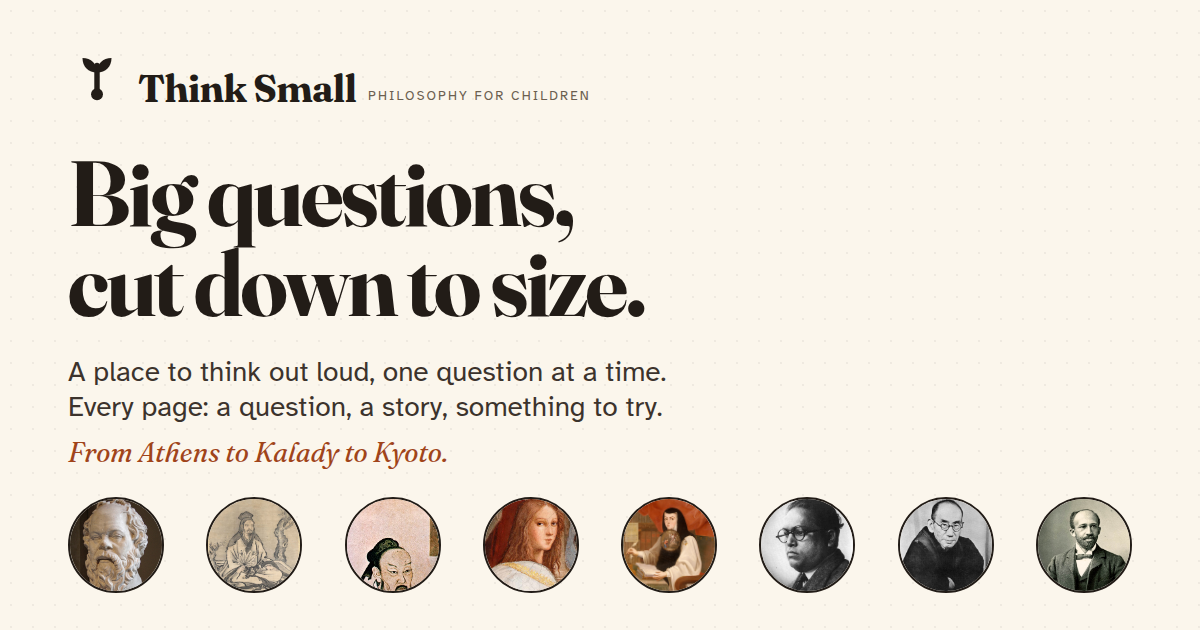
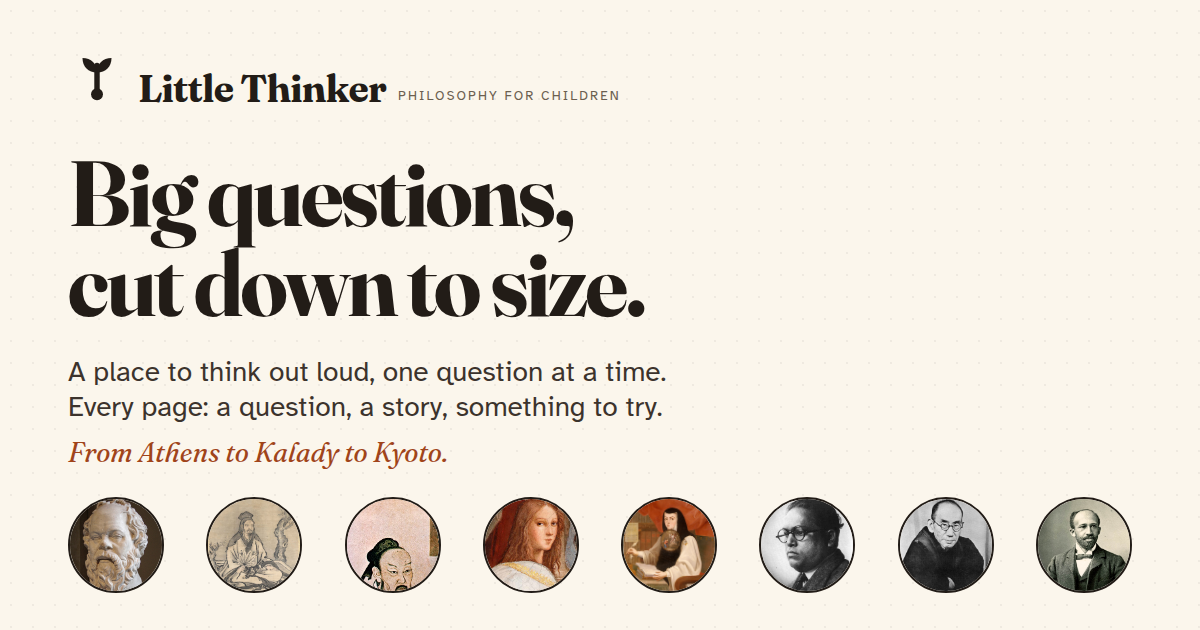
Rename the project to Little Thinker and move it to little-thinker.probir.dev
The brand, the wordmark in the logo and the social card, every page title, the
package name, the Worker name and the site URL all change. The Worker is now
deployed as little-thinker with little-thinker.probir.dev attached as a custom
domain, so Wrangler owns the DNS record and the certificate.

Storage keys move from think-small: to little-thinker:, which resets saved
reading settings and remembered votes once — nothing is sent anywhere either way.

Changed region(s): [[0.0925, 0.1206, 0.5242, 0.181]]

diff --git a/scripts/og-card.html b/scripts/og-card.html
@@ -36,7 +36,7 @@
       <path d="M16 12.4c0-4.8 3.2-8 8-8 0 4.8-3.2 8-8 8Z" fill="currentColor"/>
       <path d="M16 12.4c0-4.8-3.2-8-8-8 0 4.8 3.2 8 8 8Z" fill="currentColor"/>
       <circle cx="16" cy="24.4" r="3.3" fill="currentColor"/></svg>
-    <span class="wordmark">Think&nbsp;Small</span>
+    <span class="wordmark">Little&nbsp;Thinker</span>
     <span class="tag">PHILOSOPHY FOR CHILDREN</span>
   </div>
 
@@ -56,6 +56,6 @@
   </div>
 
   <div class="rule"></div>
-  <div class="url"><span>Read alone, or read together</span><span>think-small-philosophy.probir.workers.dev</span></div>
+  <div class="url"><span>Read alone, or read together</span><span>little-thinker.probir.dev</span></div>
 </body>
 </html>

diff --git a/src/lib/storage.ts b/src/lib/storage.ts
@@ -4,7 +4,7 @@
  * Everything the site remembers about a reader lives here: reading settings,
  * which wonders they took on, how they voted. Nothing is sent anywhere.
  */
-const PREFIX = "think-small:";
+const PREFIX = "little-thinker:";
 
 export function load<T>(key: string, fallback: T): T {
   try {

diff --git a/src/styles/global.css b/src/styles/global.css
@@ -1,4 +1,4 @@
-/* Think Small — styling, driven by Tailwind 4.
+/* Little Thinker — styling, driven by Tailwind 4.
  *
  * Two layers, deliberately:
  *   1. @theme             — the design tokens (paper, ink, branch accents, type).

diff --git a/README.md b/README.md
@@ -1,9 +1,9 @@
-# Think Small — philosophy for children
+# Little Thinker — philosophy for children
 
 A real Astro project: 39 routes, content collections, build-time image
 optimisation, and charts drawn as SVG from the content itself.
 
-Live: <https://think-small-philosophy.probir.workers.dev>
+Live: <https://little-thinker.probir.dev>
 
 ## Commands
 
